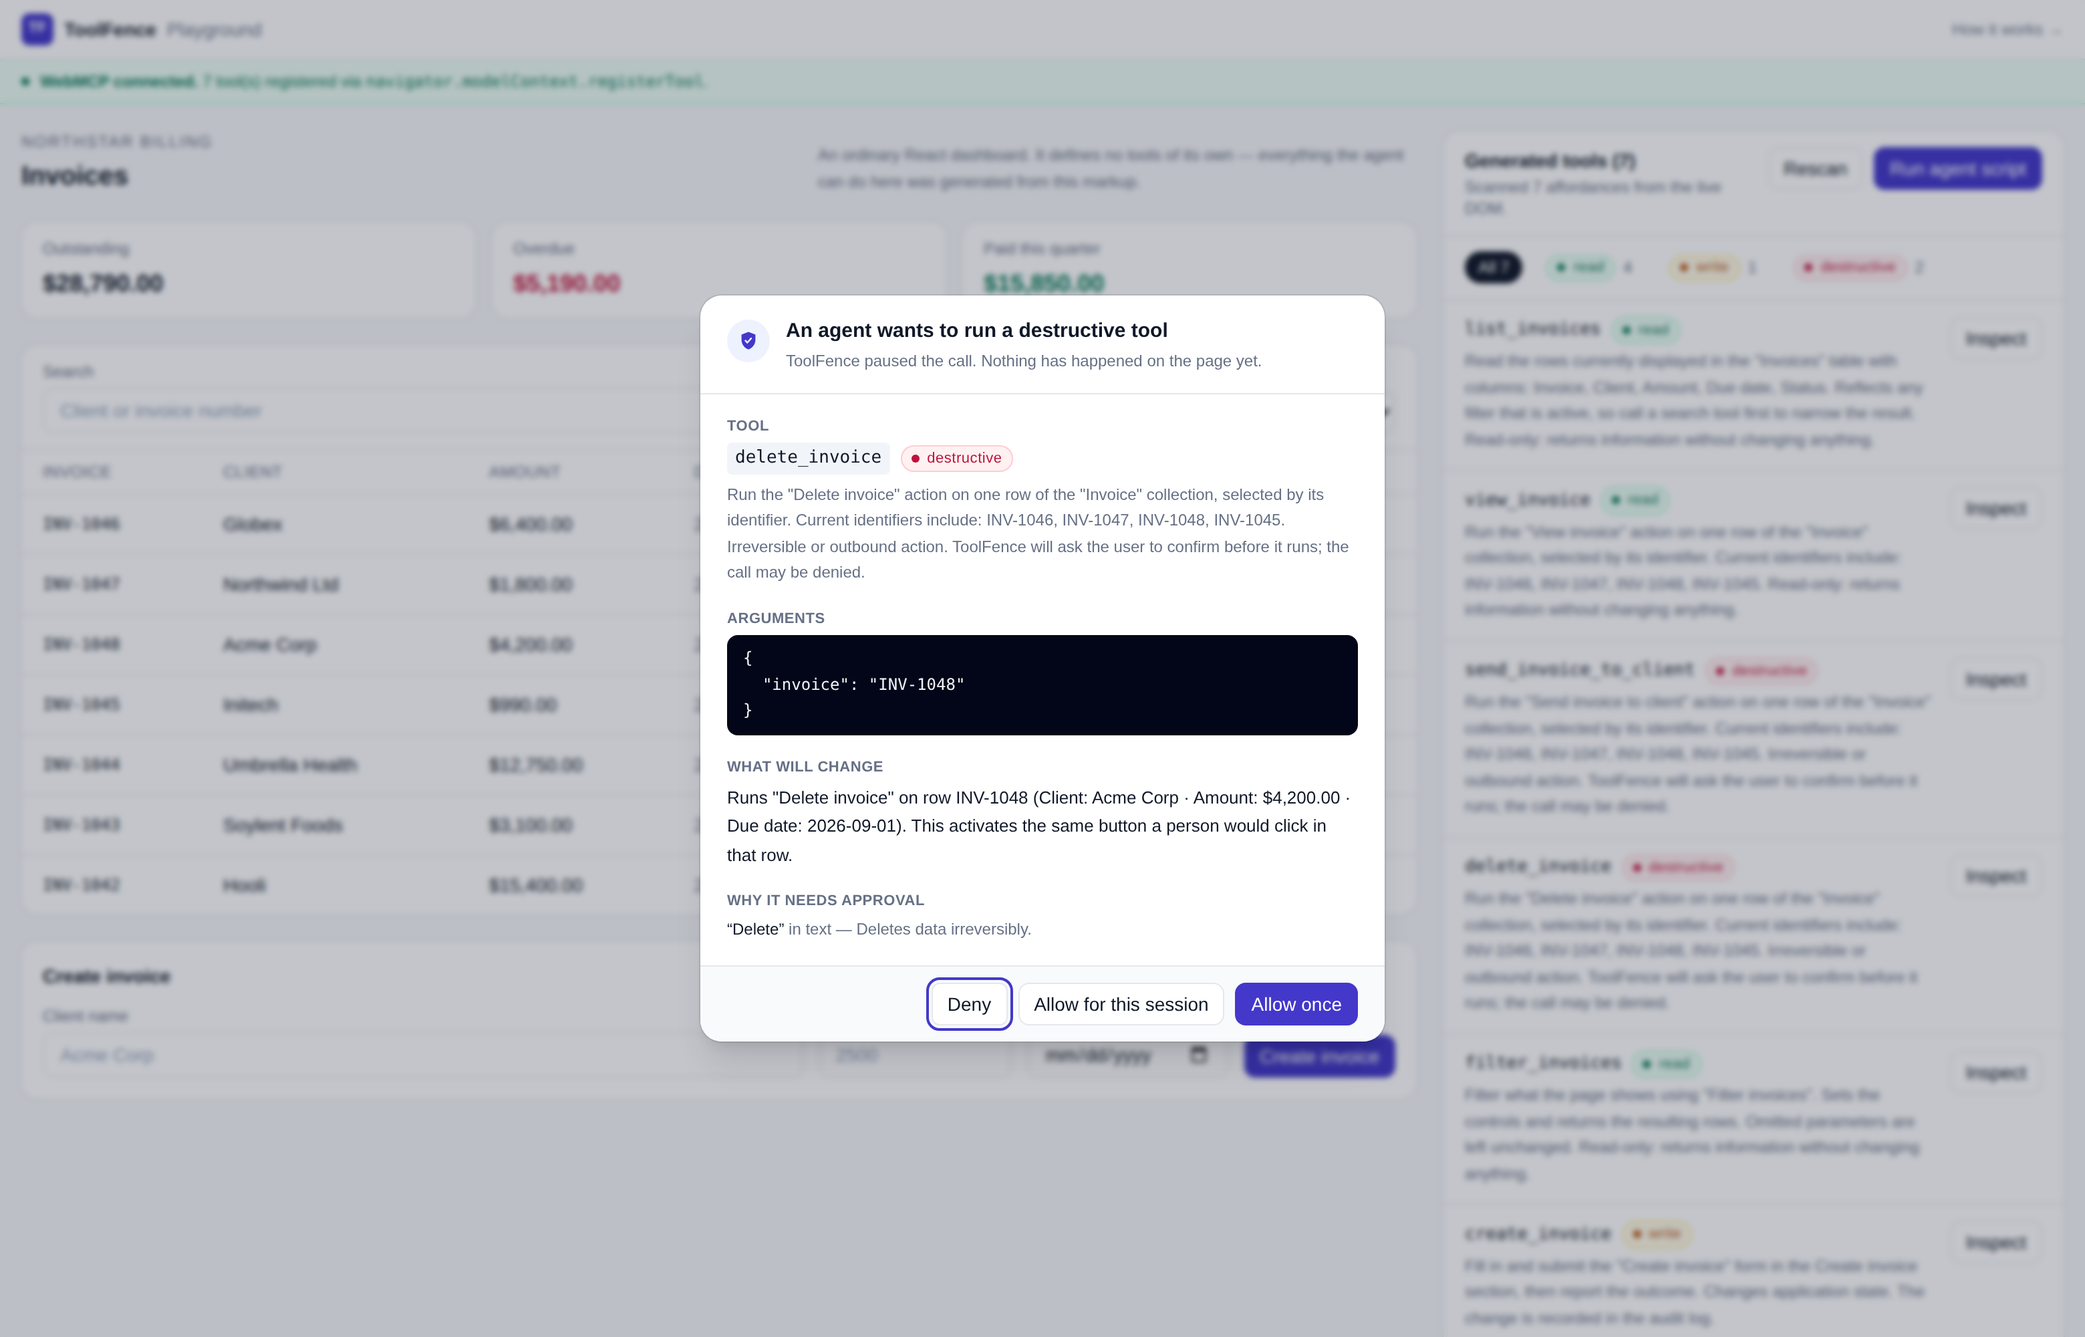
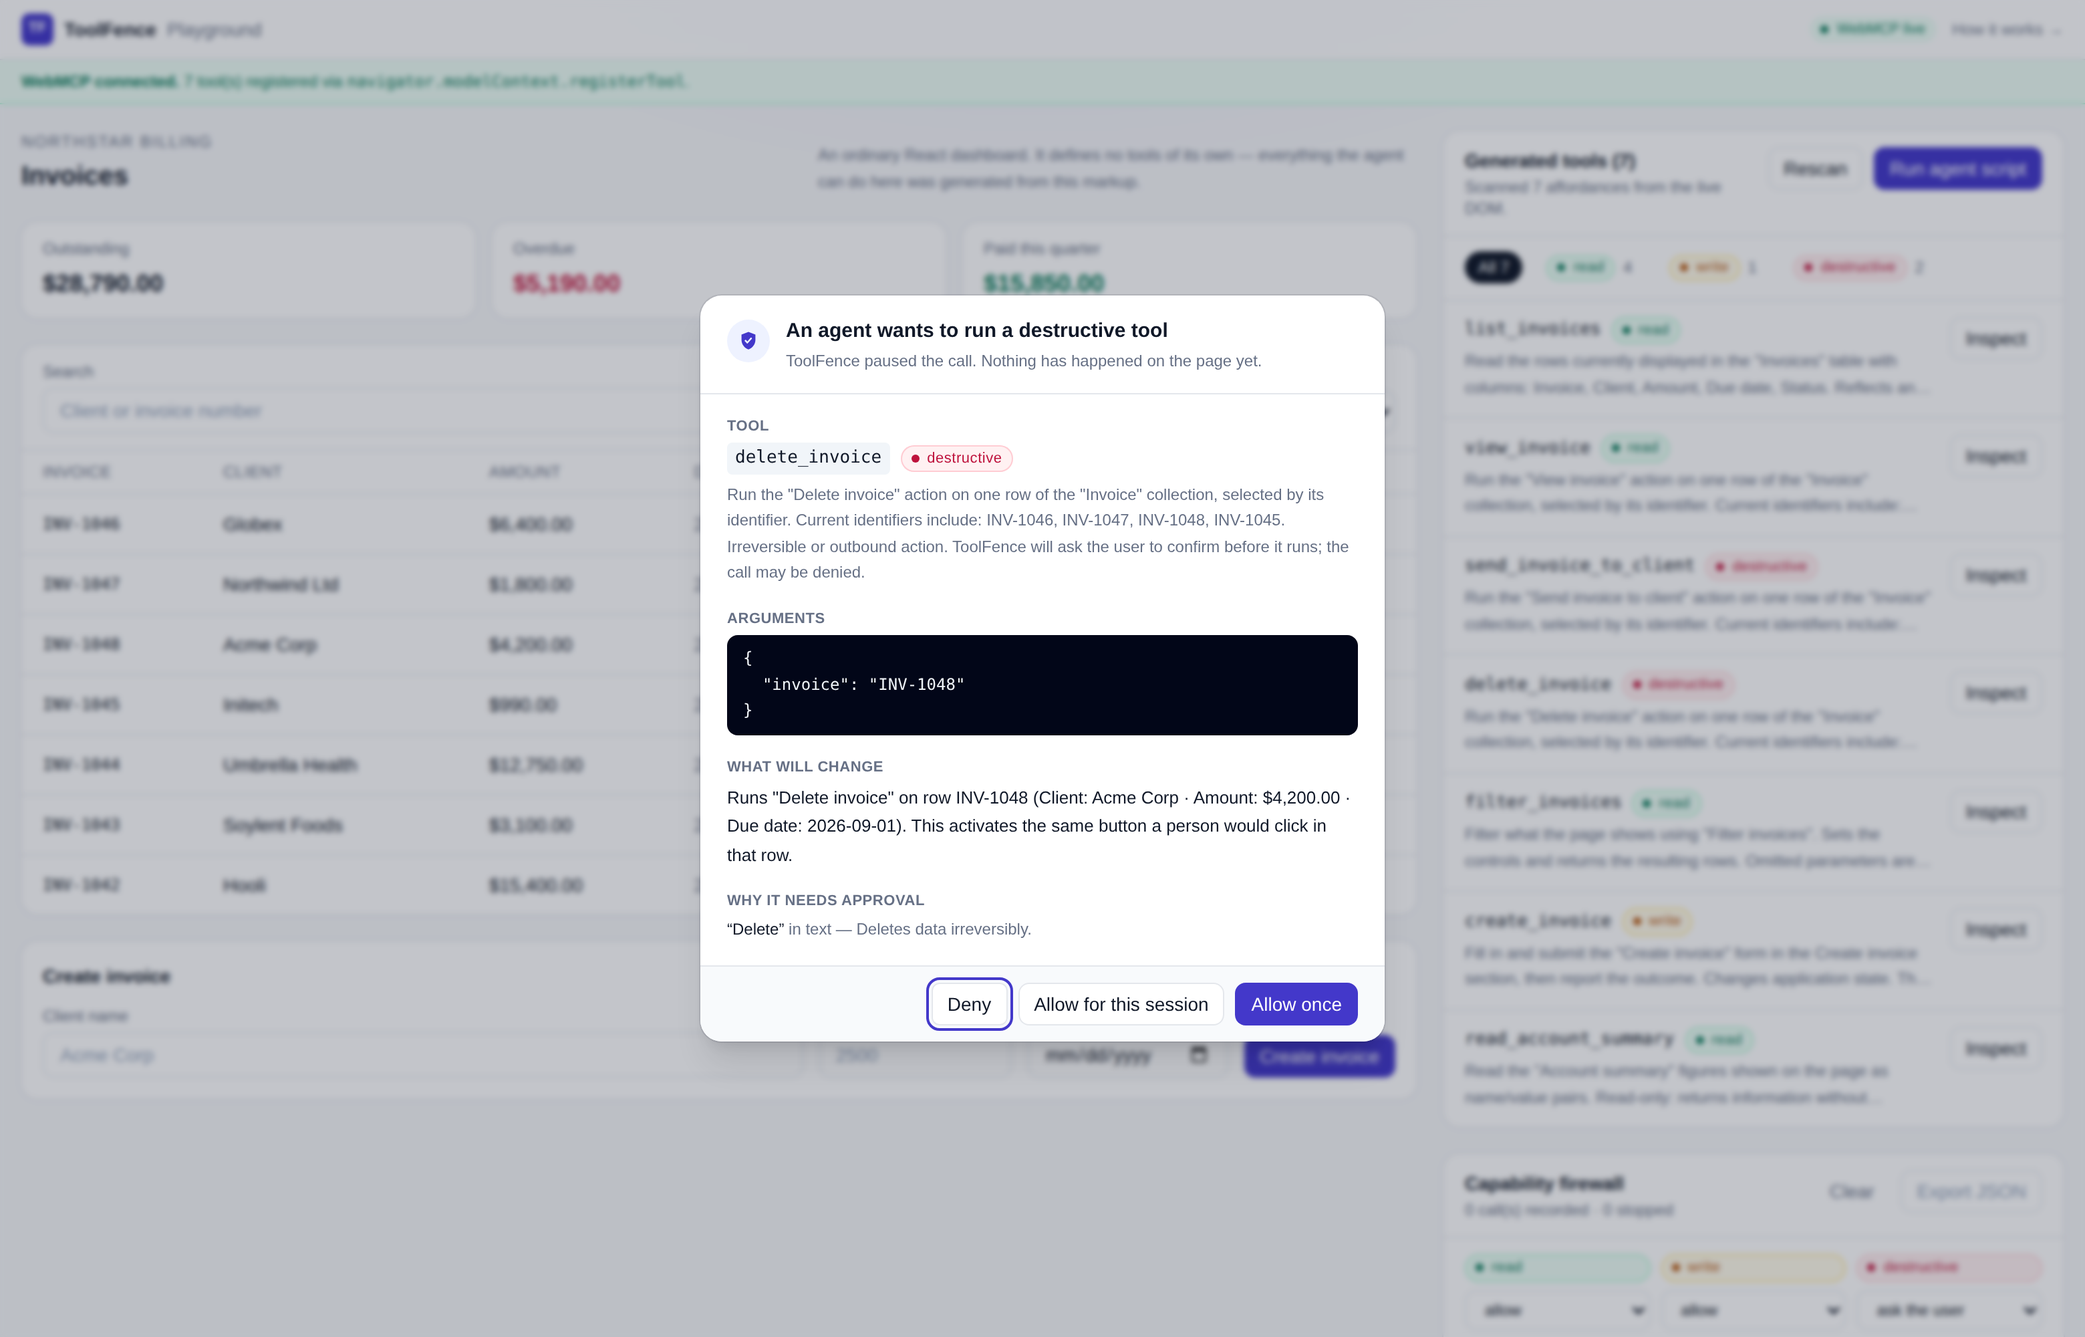
style(web): tighten the page chrome and make the mobile view usable
- WebMCP notice is one compact line with the enable instructions behind a
  disclosure, instead of a five-line banner on a phone; the header carries a
  small live/off status pill
- adds a tools summary bar below xl (count plus per-capability dots, jumping to
  the inspector) so the headline result is on the first screen rather than
  below the whole dashboard
- KPI cards form one compact row at every width; invoice ids, amounts and dates
  no longer break mid-value — the table scrolls in its own container instead
- collapsed tool cards clamp their description to two lines, so all seven tools
  and the firewall panel fit on one desktop screen; the agent still receives the
  full text
- one soft brand glow behind the canvas and a 1px lift on cards

Behaviour re-verified in Chromium: 7 tools registered, consent still blocks the
delete, Escape still denies, no console errors, no horizontal page overflow at
390px.

diff --git a/apps/web/app/playground/page.tsx b/apps/web/app/playground/page.tsx
@@ -2,14 +2,15 @@
 // from it on the right. The two sides share nothing but the DOM.
 "use client";
 
-import type { BoundTool, ToolResult } from "@toolfence/core";
+import type { BoundTool, Capability, ToolResult } from "@toolfence/core";
 import Link from "next/link";
-import { useCallback, useState } from "react";
+import { useCallback, useMemo, useState } from "react";
 import { AuditLogPanel } from "../../components/AuditLogPanel";
 import { ConsentModal } from "../../components/ConsentModal";
 import { InvoiceApp } from "../../components/InvoiceApp";
 import { ToolInspector } from "../../components/ToolInspector";
-import { Button, Card, SectionTitle } from "../../components/ui";
+import { Button, CAPABILITY_STYLES, Card, SectionTitle } from "../../components/ui";
+import type { ToolFenceController } from "../../components/useToolFence";
 import { useToolFence } from "../../components/useToolFence";
 
 interface ScriptStep {
@@ -17,6 +18,8 @@ interface ScriptStep {
   readonly args: Record<string, unknown>;
   readonly result: ToolResult;
 }
+
+const CAPABILITIES: readonly Capability[] = ["read", "write", "destructive"];
 
 export default function PlaygroundPage() {
   const controller = useToolFence("#invoice-app");
@@ -57,16 +60,21 @@ export default function PlaygroundPage() {
   }, [controller.tools]);
 
   return (
-    <div className="min-h-screen">
-      <TopBar />
-      <WebMcpBanner controller={controller} />
+    <div className="tf-canvas min-h-screen">
+      <TopBar controller={controller} />
+      <WebMcpNotice controller={controller} />
+      <ToolSummaryBar controller={controller} />
 
       <main className="mx-auto grid max-w-[110rem] gap-5 px-4 py-5 xl:grid-cols-[minmax(0,1fr)_minmax(0,29rem)]">
         <div className="min-w-0">
           <InvoiceApp />
         </div>
 
-        <aside data-toolfence-ignore className="flex min-w-0 flex-col gap-5">
+        <aside
+          id="tool-inspector"
+          data-toolfence-ignore
+          className="flex min-w-0 scroll-mt-16 flex-col gap-5"
+        >
           <ToolInspector controller={controller} onRunScript={() => void runScript()} scriptRunning={running} />
           {steps.length > 0 ? <ScriptTranscript steps={steps} /> : null}
           <AuditLogPanel controller={controller} />
@@ -79,64 +87,135 @@ export default function PlaygroundPage() {
   );
 }
 
-function TopBar() {
+function TopBar({ controller }: { controller: ToolFenceController }) {
+  const live = isLive(controller);
   return (
     <header
       data-toolfence-ignore
       className="sticky top-0 z-30 border-b border-[color:var(--color-hairline)] bg-white/85 backdrop-blur"
     >
-      <div className="mx-auto flex max-w-[110rem] items-center justify-between gap-4 px-4 py-2.5">
+      <div className="mx-auto flex max-w-[110rem] items-center justify-between gap-3 px-4 py-2.5">
         <Link href="/" className="flex items-center gap-2 text-sm font-semibold text-[color:var(--color-ink)]">
           <span className="flex h-6 w-6 items-center justify-center rounded-md bg-[color:var(--color-brand)] text-[11px] font-bold text-white">
             TF
           </span>
           ToolFence
-          <span className="font-normal text-[color:var(--color-ink-muted)]">Playground</span>
+          <span className="hidden font-normal text-[color:var(--color-ink-muted)] sm:inline">Playground</span>
         </Link>
-        <Link
-          href="/"
-          className="text-xs font-medium text-[color:var(--color-ink-muted)] hover:text-[color:var(--color-ink)]"
-        >
-          How it works →
-        </Link>
+        <div className="flex items-center gap-3">
+          <span
+            className={`inline-flex items-center gap-1.5 rounded-full px-2 py-0.5 text-[11px] font-medium ${
+              live
+                ? "bg-[color:var(--color-read-soft)] text-[color:var(--color-read)]"
+                : "bg-slate-100 text-[color:var(--color-ink-muted)]"
+            }`}
+          >
+            <span
+              className={`h-1.5 w-1.5 rounded-full ${live ? "bg-[color:var(--color-read)]" : "bg-slate-400"}`}
+              aria-hidden="true"
+            />
+            WebMCP {live ? "live" : "off"}
+          </span>
+          <Link
+            href="/"
+            className="hidden text-xs font-medium text-[color:var(--color-ink-muted)] hover:text-[color:var(--color-ink)] sm:inline"
+          >
+            How it works →
+          </Link>
+        </div>
       </div>
     </header>
   );
 }
 
-function WebMcpBanner({ controller }: { controller: ReturnType<typeof useToolFence> }) {
-  const { webmcp, registrationMode, tools } = controller;
-  const live = webmcp.available && registrationMode !== "unavailable";
+/**
+ * One compact line. The full "how to enable" text sits behind a disclosure so it
+ * does not eat five lines of a phone screen before the demo starts.
+ */
+function WebMcpNotice({ controller }: { controller: ToolFenceController }) {
+  const { registrationMode, tools } = controller;
+  const live = isLive(controller);
+
+  if (live) {
+    return (
+      <div
+        data-toolfence-ignore
+        className="border-b border-emerald-200 bg-[color:var(--color-read-soft)] text-[color:var(--color-read)]"
+      >
+        <p className="mx-auto max-w-[110rem] px-4 py-2 text-xs">
+          <strong className="font-semibold">WebMCP connected.</strong> {tools.length} tool(s) registered via{" "}
+          <code className="font-mono">navigator.modelContext.{registrationMode}</code>.
+        </p>
+      </div>
+    );
+  }
 
   return (
-    <div
-      data-toolfence-ignore
-      className={`border-b px-4 py-2 text-xs ${
-        live
-          ? "border-emerald-200 bg-[color:var(--color-read-soft)] text-[color:var(--color-read)]"
-          : "border-[color:var(--color-hairline)] bg-white text-[color:var(--color-ink-muted)]"
-      }`}
-    >
-      <div className="mx-auto flex max-w-[110rem] flex-wrap items-center gap-x-2 gap-y-1">
-        <span
-          className={`h-1.5 w-1.5 shrink-0 rounded-full ${live ? "bg-[color:var(--color-read)]" : "bg-slate-400"}`}
-          aria-hidden="true"
-        />
-        {live ? (
-          <span>
-            <strong className="font-semibold">WebMCP connected.</strong> {tools.length} tool(s) registered
-            via <code className="font-mono">navigator.modelContext.{registrationMode}</code>.
+    <div data-toolfence-ignore className="border-b border-[color:var(--color-hairline)] bg-white">
+      <details className="group mx-auto max-w-[110rem] px-4">
+        <summary className="flex cursor-pointer list-none items-center gap-2 py-2 text-xs text-[color:var(--color-ink-muted)]">
+          <span className="h-1.5 w-1.5 shrink-0 rounded-full bg-slate-400" aria-hidden="true" />
+          <span className="min-w-0">
+            <strong className="font-semibold text-[color:var(--color-ink)]">WebMCP not detected.</strong> Every
+            tool below still works.
           </span>
-        ) : (
-          <span>
-            <strong className="font-semibold text-[color:var(--color-ink)]">WebMCP not detected.</strong>{" "}
-            Enable <code className="font-mono">chrome://flags/#enable-webmcp-testing</code>, or open this
-            page in ChatGPT&rsquo;s browser. Everything below still works — use{" "}
-            <em>Call tool</em> in the inspector to drive the generated tools yourself.
+          <span className="ml-auto shrink-0 font-medium text-[color:var(--color-brand)] group-open:hidden">
+            How to enable
           </span>
-        )}
-      </div>
+          <span className="ml-auto hidden shrink-0 font-medium text-[color:var(--color-brand)] group-open:inline">
+            Hide
+          </span>
+        </summary>
+        <p className="pb-2.5 text-xs leading-relaxed text-[color:var(--color-ink-muted)]">
+          Enable <code className="font-mono">chrome://flags/#enable-webmcp-testing</code> and restart Chrome, or
+          open this page in ChatGPT&rsquo;s browser. Without it, ToolFence still scans the page, generates the
+          tools and enforces the firewall — press <em>Run agent script</em>, or <em>Call tool</em> on any tool,
+          to drive them yourself.
+        </p>
+      </details>
     </div>
+  );
+}
+
+/**
+ * On narrow screens the inspector sits far below the dashboard, so the headline
+ * result — how many tools, and how risky — is shown up front with a jump link.
+ */
+function ToolSummaryBar({ controller }: { controller: ToolFenceController }) {
+  const counts = useMemo(() => {
+    const result: Record<Capability, number> = { read: 0, write: 0, destructive: 0 };
+    for (const tool of controller.tools) result[tool.schema.capability] += 1;
+    return result;
+  }, [controller.tools]);
+
+  return (
+    <nav
+      data-toolfence-ignore
+      aria-label="Generated tools summary"
+      className="border-b border-[color:var(--color-hairline)] bg-white xl:hidden"
+    >
+      <a href="#tool-inspector" className="mx-auto flex max-w-[110rem] items-center gap-2 px-4 py-2.5">
+        <span className="text-xs font-semibold text-[color:var(--color-ink)]">
+          {controller.tools.length} tools generated
+        </span>
+        <span className="flex items-center gap-1.5">
+          {CAPABILITIES.map((capability) => (
+            <span
+              key={capability}
+              title={capability}
+              className="inline-flex items-center gap-1 text-[11px] tabular-nums text-[color:var(--color-ink-muted)]"
+            >
+              <span
+                className={`h-1.5 w-1.5 rounded-full ${CAPABILITY_STYLES[capability].dot}`}
+                aria-hidden="true"
+              />
+              {counts[capability]}
+            </span>
+          ))}
+        </span>
+        <span className="ml-auto shrink-0 text-xs font-medium text-[color:var(--color-brand)]">Inspect ↓</span>
+      </a>
+    </nav>
   );
 }
 
@@ -172,7 +251,7 @@ function ScriptTranscript({ steps }: { steps: readonly ScriptStep[] }) {
   );
 }
 
-function AiModeCard({ controller }: { controller: ReturnType<typeof useToolFence> }) {
+function AiModeCard({ controller }: { controller: ToolFenceController }) {
   const { ai } = controller;
   return (
     <Card>
@@ -191,6 +270,10 @@ function AiModeCard({ controller }: { controller: ReturnType<typeof useToolFence
       <p className="px-4 py-3 text-xs leading-relaxed text-[color:var(--color-ink-muted)]">{ai.reason}</p>
     </Card>
   );
+}
+
+function isLive(controller: ToolFenceController): boolean {
+  return controller.webmcp.available && controller.registrationMode !== "unavailable";
 }
 
 function pick(tools: readonly BoundTool[], planType: string): BoundTool | undefined {

diff --git a/apps/web/components/InvoiceApp.tsx b/apps/web/components/InvoiceApp.tsx
@@ -150,7 +150,7 @@ export function InvoiceApp() {
         </p>
       </header>
 
-      <dl aria-label="Account summary" className="grid gap-3 sm:grid-cols-3">
+      <dl aria-label="Account summary" className="grid grid-cols-3 gap-2.5 sm:gap-3">
         <SummaryCard term="Outstanding" value={money.format(totals.outstanding)} />
         <SummaryCard term="Overdue" value={money.format(totals.overdue)} tone="destructive" />
         <SummaryCard term="Paid this quarter" value={money.format(totals.paid)} tone="read" />
@@ -158,7 +158,7 @@ export function InvoiceApp() {
 
       <section
         aria-label="Invoices"
-        className="rounded-xl bg-[color:var(--color-surface)] ring-1 ring-[color:var(--color-hairline)]"
+        className="rounded-xl bg-[color:var(--color-surface)] shadow-[0_1px_2px_rgba(16,24,40,0.04)] ring-1 ring-[color:var(--color-hairline)]"
       >
         <form
           role="search"
@@ -223,12 +223,12 @@ export function InvoiceApp() {
                   key={invoice.id}
                   className="border-t border-[color:var(--color-hairline)] align-middle"
                 >
-                  <th scope="row" className="px-4 py-2.5 text-left font-mono text-xs font-medium">
+                  <th scope="row" className="whitespace-nowrap px-4 py-2.5 text-left font-mono text-xs font-medium">
                     {invoice.id}
                   </th>
                   <td className="px-4 py-2.5">{invoice.client}</td>
-                  <td className="px-4 py-2.5 tabular-nums">{money.format(invoice.amount)}</td>
-                  <td className="px-4 py-2.5 tabular-nums text-[color:var(--color-ink-muted)]">
+                  <td className="whitespace-nowrap px-4 py-2.5 tabular-nums">{money.format(invoice.amount)}</td>
+                  <td className="whitespace-nowrap px-4 py-2.5 tabular-nums text-[color:var(--color-ink-muted)]">
                     {invoice.due}
                   </td>
                   <td className="px-4 py-2.5">
@@ -281,7 +281,7 @@ export function InvoiceApp() {
       {selectedInvoice ? (
         <section
           aria-label="Invoice details"
-          className="tf-rise rounded-xl bg-[color:var(--color-surface)] p-4 ring-1 ring-[color:var(--color-hairline)]"
+          className="tf-rise rounded-xl bg-[color:var(--color-surface)] p-4 shadow-[0_1px_2px_rgba(16,24,40,0.04)] ring-1 ring-[color:var(--color-hairline)]"
         >
           <div className="flex items-center justify-between">
             <h2 className="text-sm font-semibold">Invoice {selectedInvoice.id}</h2>
@@ -306,7 +306,7 @@ export function InvoiceApp() {
         aria-label="Create invoice"
         method="post"
         onSubmit={handleCreate}
-        className="rounded-xl bg-[color:var(--color-surface)] p-4 ring-1 ring-[color:var(--color-hairline)]"
+        className="rounded-xl bg-[color:var(--color-surface)] p-4 shadow-[0_1px_2px_rgba(16,24,40,0.04)] ring-1 ring-[color:var(--color-hairline)]"
       >
         <h2 className="text-sm font-semibold">Create invoice</h2>
         <div className="mt-3 flex flex-wrap items-end gap-3">
@@ -387,11 +387,15 @@ function SummaryCard({
       className={
         compact
           ? "rounded-lg bg-slate-50 px-3 py-2"
-          : "rounded-xl bg-[color:var(--color-surface)] px-4 py-3 ring-1 ring-[color:var(--color-hairline)]"
+          : "rounded-xl bg-[color:var(--color-surface)] px-3 py-2.5 shadow-[0_1px_2px_rgba(16,24,40,0.04)] ring-1 ring-[color:var(--color-hairline)] sm:px-4 sm:py-3"
       }
     >
       <dt className="text-xs font-medium text-[color:var(--color-ink-muted)]">{term}</dt>
-      <dd className={`mt-1 text-lg font-semibold tabular-nums ${compact ? "text-sm" : ""} ${valueColor}`}>
+      <dd
+        className={`mt-1 font-semibold tabular-nums ${
+          compact ? "text-sm" : "text-[15px] sm:text-lg"
+        } ${valueColor}`}
+      >
         {value}
       </dd>
     </div>

diff --git a/apps/web/components/ToolInspector.tsx b/apps/web/components/ToolInspector.tsx
@@ -143,7 +143,11 @@ function ToolCard({ tool }: { tool: BoundTool }) {
               </span>
             ) : null}
           </div>
-          <p className="mt-1 text-xs leading-relaxed text-[color:var(--color-ink-muted)]">
+          <p
+            className={`mt-1 text-xs leading-relaxed text-[color:var(--color-ink-muted)] ${
+              open ? "" : "line-clamp-2"
+            }`}
+          >
             {schema.description}
           </p>
         </div>

diff --git a/apps/web/app/page.tsx b/apps/web/app/page.tsx
@@ -50,7 +50,7 @@ const CAPABILITIES = [
 
 export default function LandingPage() {
   return (
-    <div className="min-h-screen">
+    <div className="tf-canvas min-h-screen">
       <header className="border-b border-[color:var(--color-hairline)] bg-white/85 backdrop-blur">
         <div className="mx-auto flex max-w-5xl items-center justify-between px-5 py-3">
           <span className="flex items-center gap-2 text-sm font-semibold">

diff --git a/apps/web/components/ui.tsx b/apps/web/components/ui.tsx
@@ -70,7 +70,7 @@ export function Card({
 }) {
   return (
     <div
-      className={`rounded-xl bg-[color:var(--color-surface)] ring-1 ring-[color:var(--color-hairline)] ${className}`}
+      className={`rounded-xl bg-[color:var(--color-surface)] shadow-[0_1px_2px_rgba(16,24,40,0.04)] ring-1 ring-[color:var(--color-hairline)] ${className}`}
     >
       {children}
     </div>

diff --git a/apps/web/app/globals.css b/apps/web/app/globals.css
@@ -57,3 +57,10 @@ body {
     animation: none;
   }
 }
+
+/* A single, very soft brand glow behind the top of a page, so the neutral
+   canvas has depth without introducing a second colour. */
+.tf-canvas {
+  background-image: radial-gradient(48rem 22rem at 50% -7rem, rgba(67, 56, 202, 0.09), transparent 70%);
+  background-repeat: no-repeat;
+}
